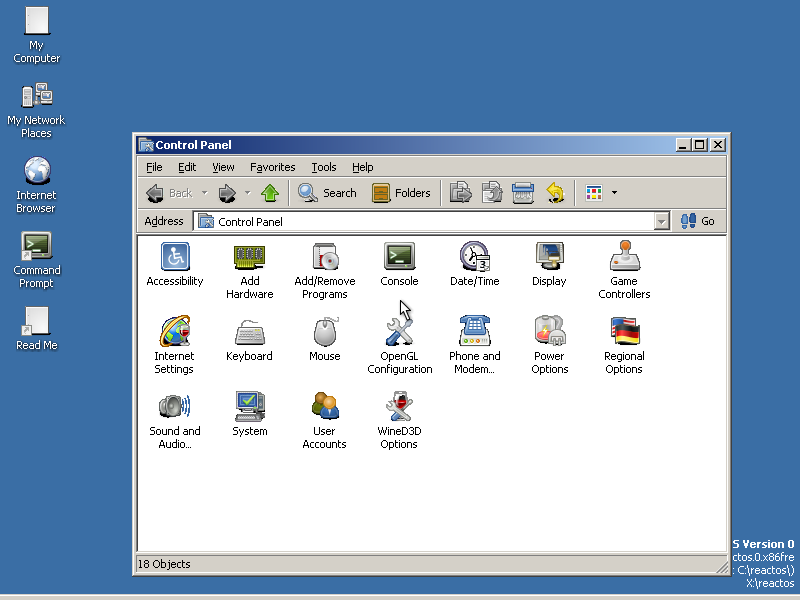
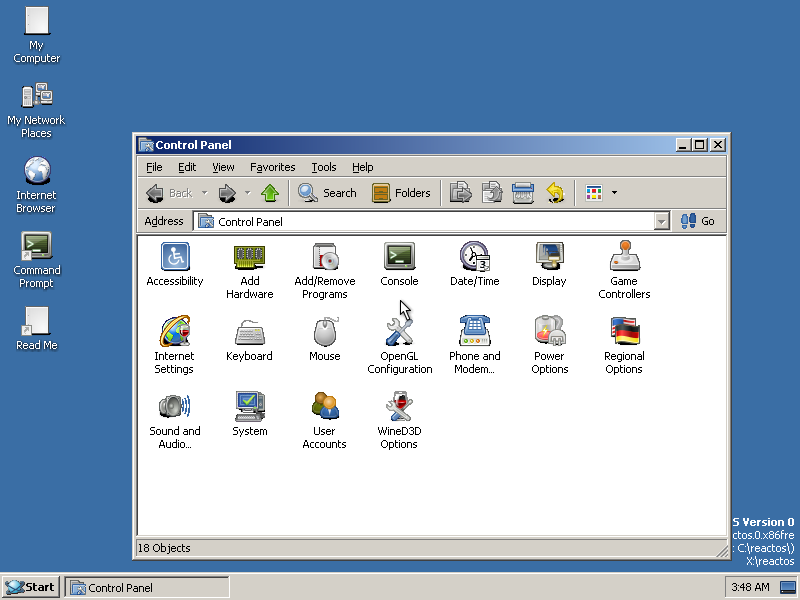
comctl32-rust rebar: the taskbar is 30 px again (a mixed-sign min() went signed)
Since comctl32 went to Rust (5bc998645ae, 2026-10-09) explorer's taskbar was 8 px tall on
every arch: the window's borders, no rebar. rebar.c's round_child_height ends
`cy = min(cy, lpBand->cyMaxChild)`, int against UINT, which C compares UNSIGNED, so the
band site's cyMaxChild of (UINT)-1 never wins. The translation cast cyMaxChild to c_int:
min(22, -1) = -1, ValidateBand zeroed the out-of-range cyChild, and the bar height was 0.

Found by bisecting the DLL (the C oracle swapped into an arm64 image gave a 30 px tray),
then a new rebar section in the modrun comctl32 probe that builds explorer's toolbar and
band site rebar: the first diverging value was cyChild 22 (C) vs 0 (Rust) after
RB_INSERTBAND. With the fix the Rust output matches the C byte for byte.

The class, audited: -Wsign-compare over all 53 C-oracle modules, kept to min/max calls,
is 26 sites; each Rust counterpart read, and this was the only mistranslated one (field
manual: "A mixed-sign min/max translated as a signed compare"). cxEffective's max() of two
UINTs now compares unsigned too (harmless today: ValidateBand caps cx at 65535).

appstorm now reports the tray's rect/visibility/workarea and FAILs a hidden or collapsed
(<16 px) taskbar; its shell=OK check only ever proved the window existed. README's arm64
app screenshots retaken from the fixed boot, taskbar included.

Verified on arm64: modrun comctl32 PASS, appstorm 55/55 with tray 572-602 on 800x600;
vibeos-cli check OK.
[…]

Changed region(s): [[0.0, 0.87, 1.0, 1.0]]

diff --git a/tools/payloads/modrun/probes/comctl32.c b/tools/payloads/modrun/probes/comctl32.c
@@ -883,11 +883,102 @@ static void list_tests(HWND parent)
     notify_quiet = 0;
 }
 
+/* The taskbar's geometry, as explorer builds it: the task switcher's toolbar (taskswnd.cpp),
+ * then browseui's band site rebar (CBandSite.cpp) holding it as a RBBS_VARIABLEHEIGHT band
+ * (taskband.cpp GetBandInfo), then FitToRebar's RB_SIZETORECT/RBSTR_CHANGERECT (traywnd.cpp).
+ * comctl32-rust shipped a taskbar 8 px tall -- the window's borders and no rebar -- from this
+ * path, and nothing else in the boot measures it. */
+static void rebar_tests(HWND parent)
+{
+    static const int heights[] = { 0, 8, 30, 60 };
+    HWND tb, rb;
+    TBBUTTON btn = {0};
+    REBARBANDINFOW rbi;
+    RECT rc;
+    DWORD size;
+    int i, btn_cy;
+
+    tb = CreateWindowExW(0, TOOLBARCLASSNAMEW, NULL,
+                         WS_CHILD | WS_VISIBLE | WS_CLIPCHILDREN | TBSTYLE_TOOLTIPS |
+                             TBSTYLE_WRAPABLE | TBSTYLE_LIST | TBSTYLE_TRANSPARENT | CCS_TOP |
+                             CCS_NORESIZE | CCS_NODIVIDER,
+                         0, 0, 0, 0, parent, NULL, NULL, NULL);
+    printf("tb created %d\n", tb != NULL);
+    if (!tb)
+        return;
+    SendMessageW(tb, TB_BUTTONSTRUCTSIZE, sizeof(TBBUTTON), 0);
+    btn.iBitmap = I_IMAGENONE;
+    btn.idCommand = 1;
+    btn.fsState = TBSTATE_ENABLED | TBSTATE_ELLIPSES;
+    btn.fsStyle = BTNS_CHECK | BTNS_NOPREFIX | BTNS_SHOWTEXT;
+    btn.iString = (INT_PTR)L"Task";
+    printf("tb add %ld\n", (long)SendMessageW(tb, TB_ADDBUTTONSW, 1, (LPARAM)&btn));
+    size = (DWORD)SendMessageW(tb, TB_GETBUTTONSIZE, 0, 0);
+    btn_cy = HIWORD(size);
+    printf("tb buttonsize %u,%u\n", LOWORD(size), HIWORD(size));
+    SendMessageW(tb, TB_GETITEMRECT, 0, (LPARAM)&rc);
+    printf("tb itemrect %ld,%ld,%ld,%ld\n", rc.left, rc.top, rc.right, rc.bottom);
+    SetWindowPos(tb, NULL, 0, 0, 200, btn_cy, SWP_NOZORDER | SWP_NOACTIVATE);
+
+    rb = CreateWindowExW(WS_EX_TOOLWINDOW, REBARCLASSNAMEW, NULL,
+                         WS_CHILD | WS_CLIPSIBLINGS | WS_CLIPCHILDREN | RBS_VARHEIGHT |
+                             RBS_AUTOSIZE | RBS_BANDBORDERS | CCS_NODIVIDER | CCS_NOPARENTALIGN,
+                         0, 0, 0, 0, parent, NULL, NULL, NULL);
+    printf("rb created %d\n", rb != NULL);
+    if (!rb)
+    {
+        DestroyWindow(tb);
+        return;
+    }
+    /* tbsite.cpp then drops RBS_BANDBORDERS */
+    SetWindowLongW(rb, GWL_STYLE, GetWindowLongW(rb, GWL_STYLE) & ~RBS_BANDBORDERS);
+
+    memset(&rbi, 0, sizeof(rbi));
+    rbi.cbSize = sizeof(rbi);
+    rbi.fMask = RBBIM_ID | RBBIM_CHILD | RBBIM_CHILDSIZE | RBBIM_IDEALSIZE | RBBIM_SIZE |
+                RBBIM_STYLE;
+    rbi.wID = 1;
+    rbi.hwndChild = tb;
+    rbi.fStyle = RBBS_VARIABLEHEIGHT | RBBS_NOGRIPPER;
+    rbi.cxMinChild = 0;
+    rbi.cyMinChild = btn_cy;
+    rbi.cyMaxChild = (UINT)-1;
+    rbi.cyIntegral = btn_cy;
+    rbi.cx = rbi.cxIdeal = 200;
+    rbi.cyChild = btn_cy;
+    printf("rb insert %ld\n", (long)SendMessageW(rb, RB_INSERTBANDW, (WPARAM)-1, (LPARAM)&rbi));
+    printf("rb bands %ld rows %ld barheight %ld\n", (long)SendMessageW(rb, RB_GETBANDCOUNT, 0, 0),
+           (long)SendMessageW(rb, RB_GETROWCOUNT, 0, 0),
+           (long)SendMessageW(rb, RB_GETBARHEIGHT, 0, 0));
+    memset(&rbi, 0, sizeof(rbi));
+    rbi.cbSize = sizeof(rbi);
+    rbi.fMask = RBBIM_CHILDSIZE | RBBIM_STYLE | RBBIM_SIZE | RBBIM_IDEALSIZE;
+    SendMessageW(rb, RB_GETBANDINFOW, 0, (LPARAM)&rbi);
+    printf("rb band style=0x%x cx=%u cxIdeal=%u minchild=%u,%u child=%u max=%d integral=%u\n",
+           rbi.fStyle, rbi.cx, rbi.cxIdeal, rbi.cxMinChild, rbi.cyMinChild, rbi.cyChild,
+           (int)rbi.cyMaxChild, rbi.cyIntegral);
+    SendMessageW(rb, RB_GETRECT, 0, (LPARAM)&rc);
+    printf("rb bandrect %ld,%ld,%ld,%ld\n", rc.left, rc.top, rc.right, rc.bottom);
+
+    for (i = 0; i < (int)(sizeof(heights) / sizeof(heights[0])); i++)
+    {
+        RECT r = { 0, 0, 400, heights[i] };
+        LRESULT ok = SendMessageW(rb, RB_SIZETORECT, RBSTR_CHANGERECT, (LPARAM)&r);
+        GetClientRect(rb, &rc);
+        printf("rb sizetorect %d -> %ld rect=%ld,%ld,%ld,%ld client=%ldx%ld barheight %ld rows %ld\n",
+               heights[i], (long)ok, r.left, r.top, r.right, r.bottom, rc.right, rc.bottom,
+               (long)SendMessageW(rb, RB_GETBARHEIGHT, 0, 0),
+               (long)SendMessageW(rb, RB_GETROWCOUNT, 0, 0));
+    }
+    DestroyWindow(rb); /* takes the toolbar with it: SetParent made it the band's child */
+}
+
 static void control_tests(void)
 {
     typedef BOOL(WINAPI * ICCEX_t)(const INITCOMMONCONTROLSEX *);
     ICCEX_t iccex = (ICCEX_t)GetProcAddress(dll, "InitCommonControlsEx");
-    INITCOMMONCONTROLSEX icc = { sizeof(icc), ICC_TREEVIEW_CLASSES | ICC_LISTVIEW_CLASSES };
+    INITCOMMONCONTROLSEX icc = { sizeof(icc), ICC_TREEVIEW_CLASSES | ICC_LISTVIEW_CLASSES |
+                                                ICC_BAR_CLASSES | ICC_COOL_CLASSES };
     WNDCLASSW wc = {0};
     HWND parent;
 
@@ -904,6 +995,8 @@ static void control_tests(void)
     tree_tests(parent);
     fflush(stdout);
     list_tests(parent);
+    fflush(stdout);
+    rebar_tests(parent);
     fflush(stdout);
     DestroyWindow(parent);
 }

diff --git a/tools/payloads/appstorm/appstorm.c b/tools/payloads/appstorm/appstorm.c
@@ -778,6 +778,28 @@ int main(void)
     fmtmsg_check() ? pass++ : fail++;
     shell_note();
     SAY("shell tray=%p\n", (void *)shell_tray);
+    if (shell_tray) {
+        /* The tray existing is not the taskbar SHOWING: every appstorm shot from 2026-10-14 on
+         * had no taskbar while shell=OK. Say where it is and whether it is drawn. */
+        RECT r = {0}, w = {0};
+        GetWindowRect(shell_tray, &r);
+        SystemParametersInfoW(SPI_GETWORKAREA, 0, &w, 0);
+        SAY("shell tray rect=%ld,%ld,%ld,%ld visible=%d style=0x%lx exstyle=0x%lx "
+            "screen=%dx%d workarea=%ld,%ld,%ld,%ld\n",
+            r.left, r.top, r.right, r.bottom, IsWindowVisible(shell_tray),
+            (unsigned long)GetWindowLongW(shell_tray, GWL_STYLE),
+            (unsigned long)GetWindowLongW(shell_tray, GWL_EXSTYLE), GetSystemMetrics(SM_CXSCREEN),
+            GetSystemMetrics(SM_CYSCREEN), w.left, w.top, w.right, w.bottom);
+        /* comctl32-rust's rebar once reported a 0 px band, leaving a taskbar of 8 px (its
+         * borders) that every check here passed. A docked taskbar is at least a button tall. */
+        LONG thick = min(r.right - r.left, r.bottom - r.top);
+        if (!IsWindowVisible(shell_tray) || thick < 16) {
+            SAY("shell tray FAIL: %s, %ld px thick\n",
+                IsWindowVisible(shell_tray) ? "collapsed" : "hidden", thick);
+            fail++;
+        } else
+            pass++;
+    }
     note_emulation();
     Sleep(5000); /* let the desktop settle before the first snapshot */
     /* APPSTORM_REPEAT (build.sh): the whole app list N times, to catch an intermittent

diff --git a/sdk/lib/rust/comctl32-rust/src/comctl32/rebar.rs b/sdk/lib/rust/comctl32-rust/src/comctl32/rebar.rs
@@ -814,7 +814,13 @@ unsafe extern "C" fn round_child_height(lpBand: *const REBAR_BAND, mut cyHeight:
             .wrapping_div((*lpBand).cyIntegral)
             .wrapping_mul((*lpBand).cyIntegral),
     ) as ::core::ffi::c_int;
-    cy = min(cy, (*lpBand).cyMaxChild as ::core::ffi::c_int);
+    // The C's `min(cy, lpBand->cyMaxChild)` mixes int and UINT, so it compares UNSIGNED: a
+    // cyMaxChild of (UINT)-1, "no maximum", never wins. Casting it to int made it -1 and
+    // every such band 0 px tall, explorer's task band among them (an 8 px taskbar).
+    // The cyIntegral == 0 arm above casts to int in the C itself, so that one stays signed.
+    if (cy as UINT) > (*lpBand).cyMaxChild {
+        cy = (*lpBand).cyMaxChild as ::core::ffi::c_int;
+    }
     return cy;
 }
 
@@ -2220,7 +2226,8 @@ unsafe extern "C" fn REBAR_LayoutRow(
         if i > iBeginBand {
             width += SEP_WIDTH!(infoPtr);
         }
-        (*lpBand).cxEffective = max((*lpBand).cxMinBand as INT, (*lpBand).cx as INT);
+        // max() of two UINTs compares unsigned in the C
+        (*lpBand).cxEffective = max((*lpBand).cxMinBand, (*lpBand).cx) as INT;
         width += (*lpBand).cxEffective as ::core::ffi::c_int;
         i = next_visible(infoPtr, i as INT) as ::core::ffi::c_int;
     }

diff --git a/docs/engineering/translation-debugging-field-manual.md b/docs/engineering/translation-debugging-field-manual.md
@@ -2573,6 +2573,26 @@ the C guards, is a genuine mistranslation and wants the guard restored instead. 
 helpers too, not just the shipping crate: one of the four was a double→`long double` rebias in
 wave16.rs whose neighbouring subnormal branch was already `wrapping_*`.
 
+### A mixed-sign `min`/`max` translated as a signed compare
+**Symptom:** explorer's taskbar was 8 px tall on every arch, its borders and nothing else, for
+a week after comctl32 went to Rust (2026-10-09 → 10-18). The tray window existed, so smoke and
+appstorm's `shell=OK` stayed green; only a screenshot showed it.
+**Cause:** rebar.c's `round_child_height` ends `cy = min(cy, lpBand->cyMaxChild)`, an `int`
+against a `UINT`. C's usual arithmetic conversions make that an UNSIGNED compare, so a
+`cyMaxChild` of `(UINT)-1` ("no maximum", what browseui's band site passes) never wins. Rust's
+`min` needs one type, and the translation cast `cyMaxChild as c_int`: `min(22, -1)` is -1, the
+band's `cyChild` became `0xFFFFFFFF`, `REBAR_ValidateBand` zeroed it as out of range, and the
+rebar reported a bar height of 0.
+**Fix:** compare the way the C does: `if (cy as UINT) > max { cy = max as c_int }`, or
+`min(a as UINT, b) as c_int`. The rest of rebar.c was already right, including every
+`i < uNumBands` and `uNumBands - 1` site; it is the `min`/`max` CALL that invites a single
+cast to one side.
+**Finding the rest:** clang's `-Wsign-compare` on the C oracle flags exactly this. Run it over
+a module's `<target>_c` compile commands and keep the lines that call `min`/`max`. Across all
+53 oracle modules (2026-10-18) that is 24 sites in comctl32 and 2 in credui, and this was the
+only mistranslated one. Modules with no oracle are unaudited. A rebar section in the modrun
+comctl32 probe (`probes/comctl32.c`) now diffs the band and bar heights against the C.
+
 ### A UTF-16 literal spelled as bytes has alignment 1, and the kernel rejects odd addresses
 **Symptom:** an unrelated link change (here msvcrtex becoming Rust, 2026-10-04) and then a
 BUGCHECK 0x1E / STATUS_DATATYPE_MISALIGNMENT out of a syscall's `ProbeForRead`, with
